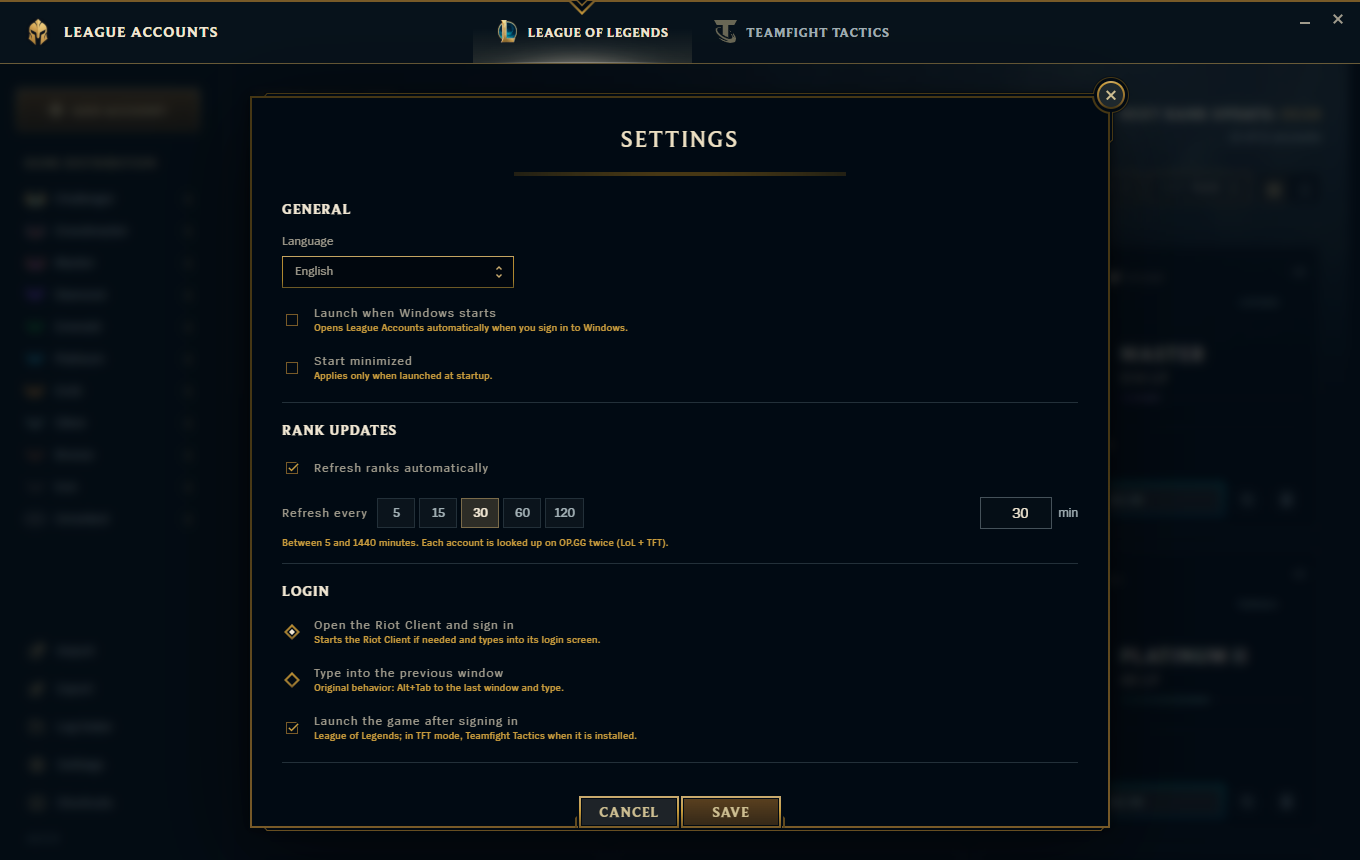
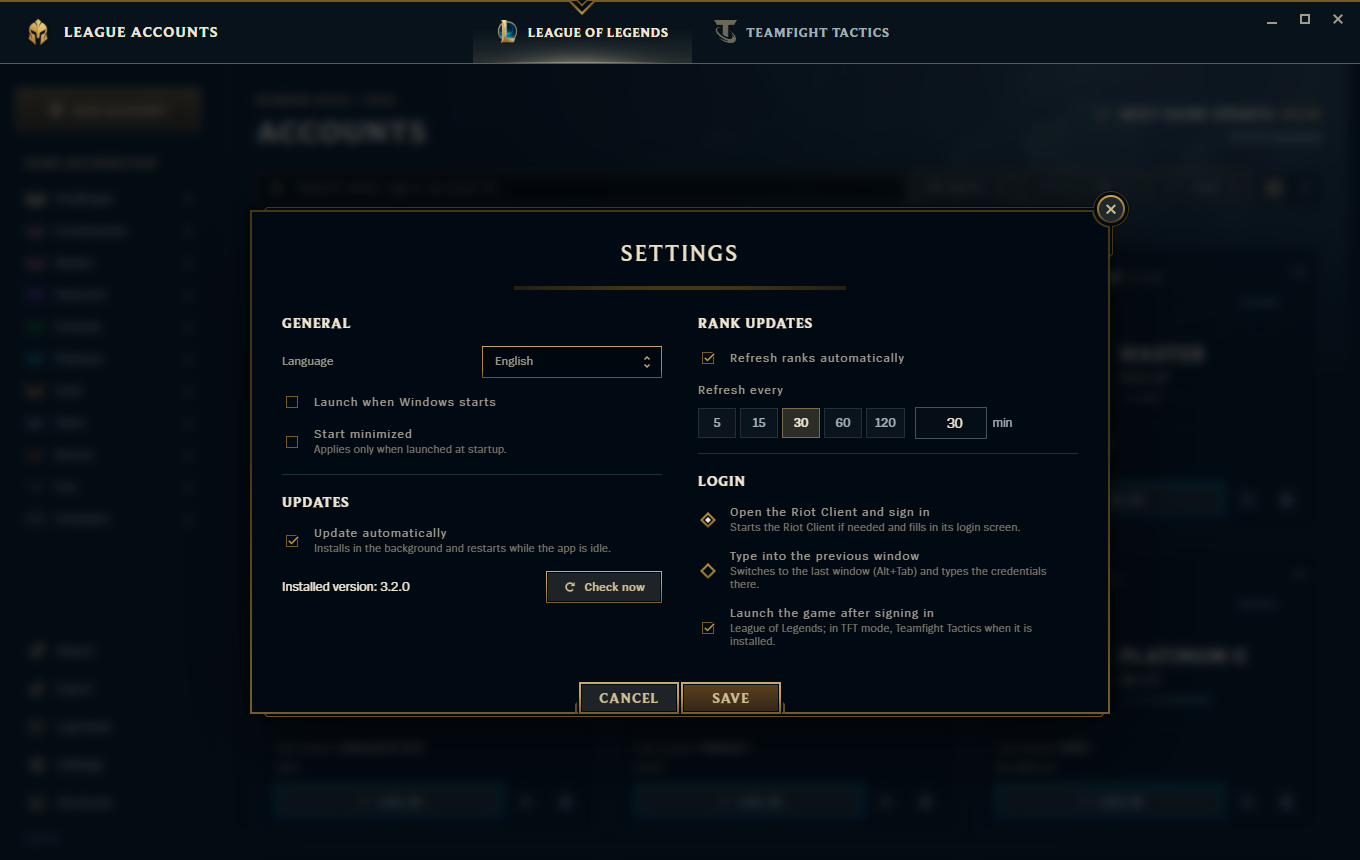
docs: README for ban detection, recaptured screenshots
- Tagline and features mention the ban check; Usage says what happens
  when Riot reports a ban.
- Replace the TFT mode tile (the hero GIF already ends on TFT) with the
  banned-account warning, from a new `banned` demo scene.
- Recapture every still and the hero GIF with the current UI: login
  loader, ticked steps, maximize button, two-column Settings.
- Captures start the pointer on the empty header and show the release
  version in Settings too.
- Quote the current Riot Client timeout message in Troubleshooting.

diff --git a/ui/src/main.ts b/ui/src/main.ts
@@ -1287,6 +1287,8 @@ function runDemoScene(): void {
     if (scene === "settings") void openSettings();
     if (scene === "add") openAddDrawer();
     if (scene === "login") void login(byName("Hextech"));
+    // The mock bans Kebab Enjoyer: logging in asks first, with the time left.
+    if (scene === "banned") void login(byName("Kebab"));
     if (scene === "update") showUpdateBanner({ version: "3.1.0", name: "v3.1.0", url: "", notes: "", publishedAt: "" }, true);
     if (scene === "menu") {
       const card = document.querySelector<HTMLElement>("#accounts > .card:nth-child(2)")!;

diff --git a/README.md b/README.md
@@ -5,7 +5,7 @@
 # League Accounts
 
 **All your League of Legends & Teamfight Tactics accounts in one place.**
-One-click login, current ranks and auto refresh — with passwords kept in Windows Credential Manager.
+One-click login, live ranks and ban countdowns, with passwords kept in Windows Credential Manager.
 
 [![Latest release](https://img.shields.io/github/v/release/Tariolle/LeagueAccounts?label=download&color=c8aa6e)](https://github.com/Tariolle/LeagueAccounts/releases/latest)
 ![Windows](https://img.shields.io/badge/platform-Windows%2010%20%7C%2011-0ac8b9)
@@ -20,6 +20,7 @@ One-click login, current ranks and auto refresh — with passwords kept in Windo
 - **One-click login.** League Accounts opens the Riot Client, signs in and launches LoL or TFT.
 - **LoL and TFT ranks** from OP.GG, refreshed in the background (every 30 minutes by default).
 - **Duo finder.** The *Friend elo* filter shows which accounts can play ranked with a friend.
+- **Ban check.** Each login reads the account's League ban from Riot; a banned account shows the time left instead of launching a game that would disconnect you.
 - **Safe by design.** Passwords stay in Windows Credential Manager and never reach the interface.
 - **Made for daily use.** Launch with Windows, keyboard shortcuts, import/export, automatic updates, 6 languages.
 
@@ -40,16 +41,16 @@ username1--Player One#EUW--password1
 username2----password2
 ```
 
-**Log in** with the card's **Log in** button. If another account is signed in, it is signed out first, and you're warned before an open League client is closed (or a match left). For 2FA or a captcha, finish in the Riot window; the game launches once the sign-in is confirmed.
+**Log in** with the card's **Log in** button. If another account is signed in, it is signed out first, and you're warned before an open League client is closed (or a match left). For 2FA or a captcha, finish in the Riot window; the game launches once the sign-in is confirmed. If Riot reports a ban, the game isn't started: the card shows the time left, and logging in again before it ends asks first.
 
 <table>
   <tr>
-    <td width="50%"><img src="docs/screenshots/tft.png" alt="TFT mode" /><br /><sub><b>TFT mode:</b> ranks, sorting and filters for Teamfight Tactics.</sub></td>
+    <td width="50%"><img src="docs/screenshots/banned.png" alt="Warning before logging in to a banned account" /><br /><sub><b>Ban check:</b> see how long a ban lasts before you log in.</sub></td>
     <td width="50%"><img src="docs/screenshots/list.png" alt="Compact list view" /><br /><sub><b>List view</b> for many accounts.</sub></td>
   </tr>
   <tr>
     <td><img src="docs/screenshots/add.png" alt="Add account panel" /><br /><sub><b>Add one account or paste many.</b></sub></td>
-    <td><img src="docs/screenshots/settings.png" alt="Settings" /><br /><sub><b>Settings:</b> startup, refresh interval, login method, updates.</sub></td>
+    <td><img src="docs/screenshots/settings.png" alt="Settings" /><br /><sub><b>Settings:</b> language, startup, refresh interval, login method, updates.</sub></td>
   </tr>
 </table>
 
@@ -81,7 +82,7 @@ username2----password2
 | Problem | What to do |
 |---|---|
 | *Riot Client was not found* | Install the Riot Client, or use **Settings → Login → Type into the previous window**. |
-| *The login screen didn't appear in time* | Open the Riot Client once manually (it may be updating), then retry. |
+| *The Riot Client login screen or sign-in status wasn't ready in time* | Open the Riot Client once manually (it may be updating), then retry. |
 | Ranks show **Unavailable** or *Riot ID not found* | Check the Riot ID and region; OP.GG may also be rate-limiting. |
 | Anything else | Attach the newest file from **Log folder** (sidebar) to an [issue](https://github.com/Tariolle/LeagueAccounts/issues). |
 
